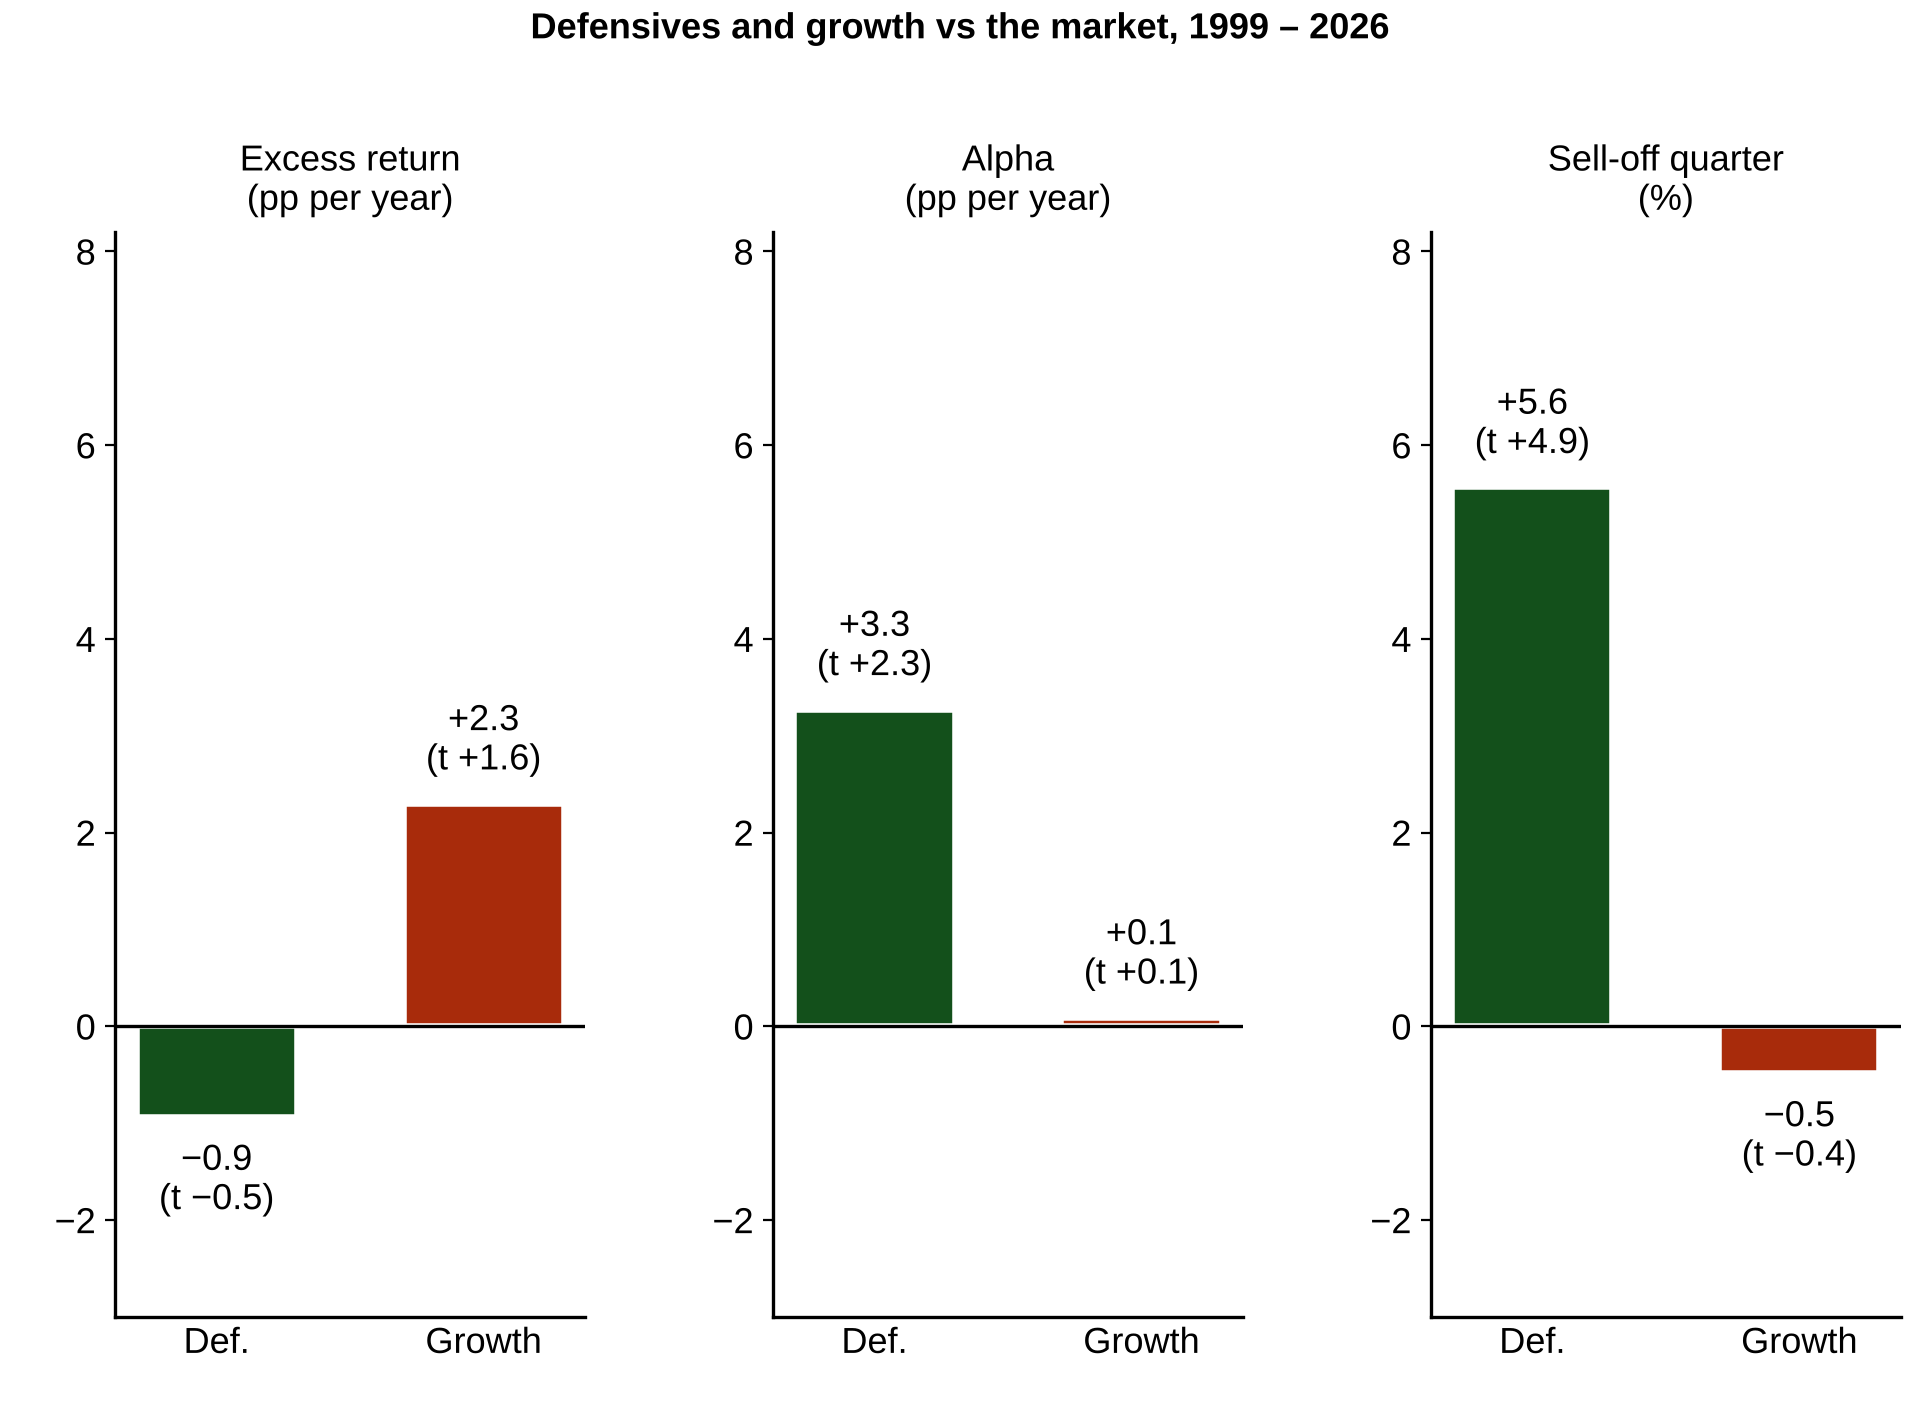
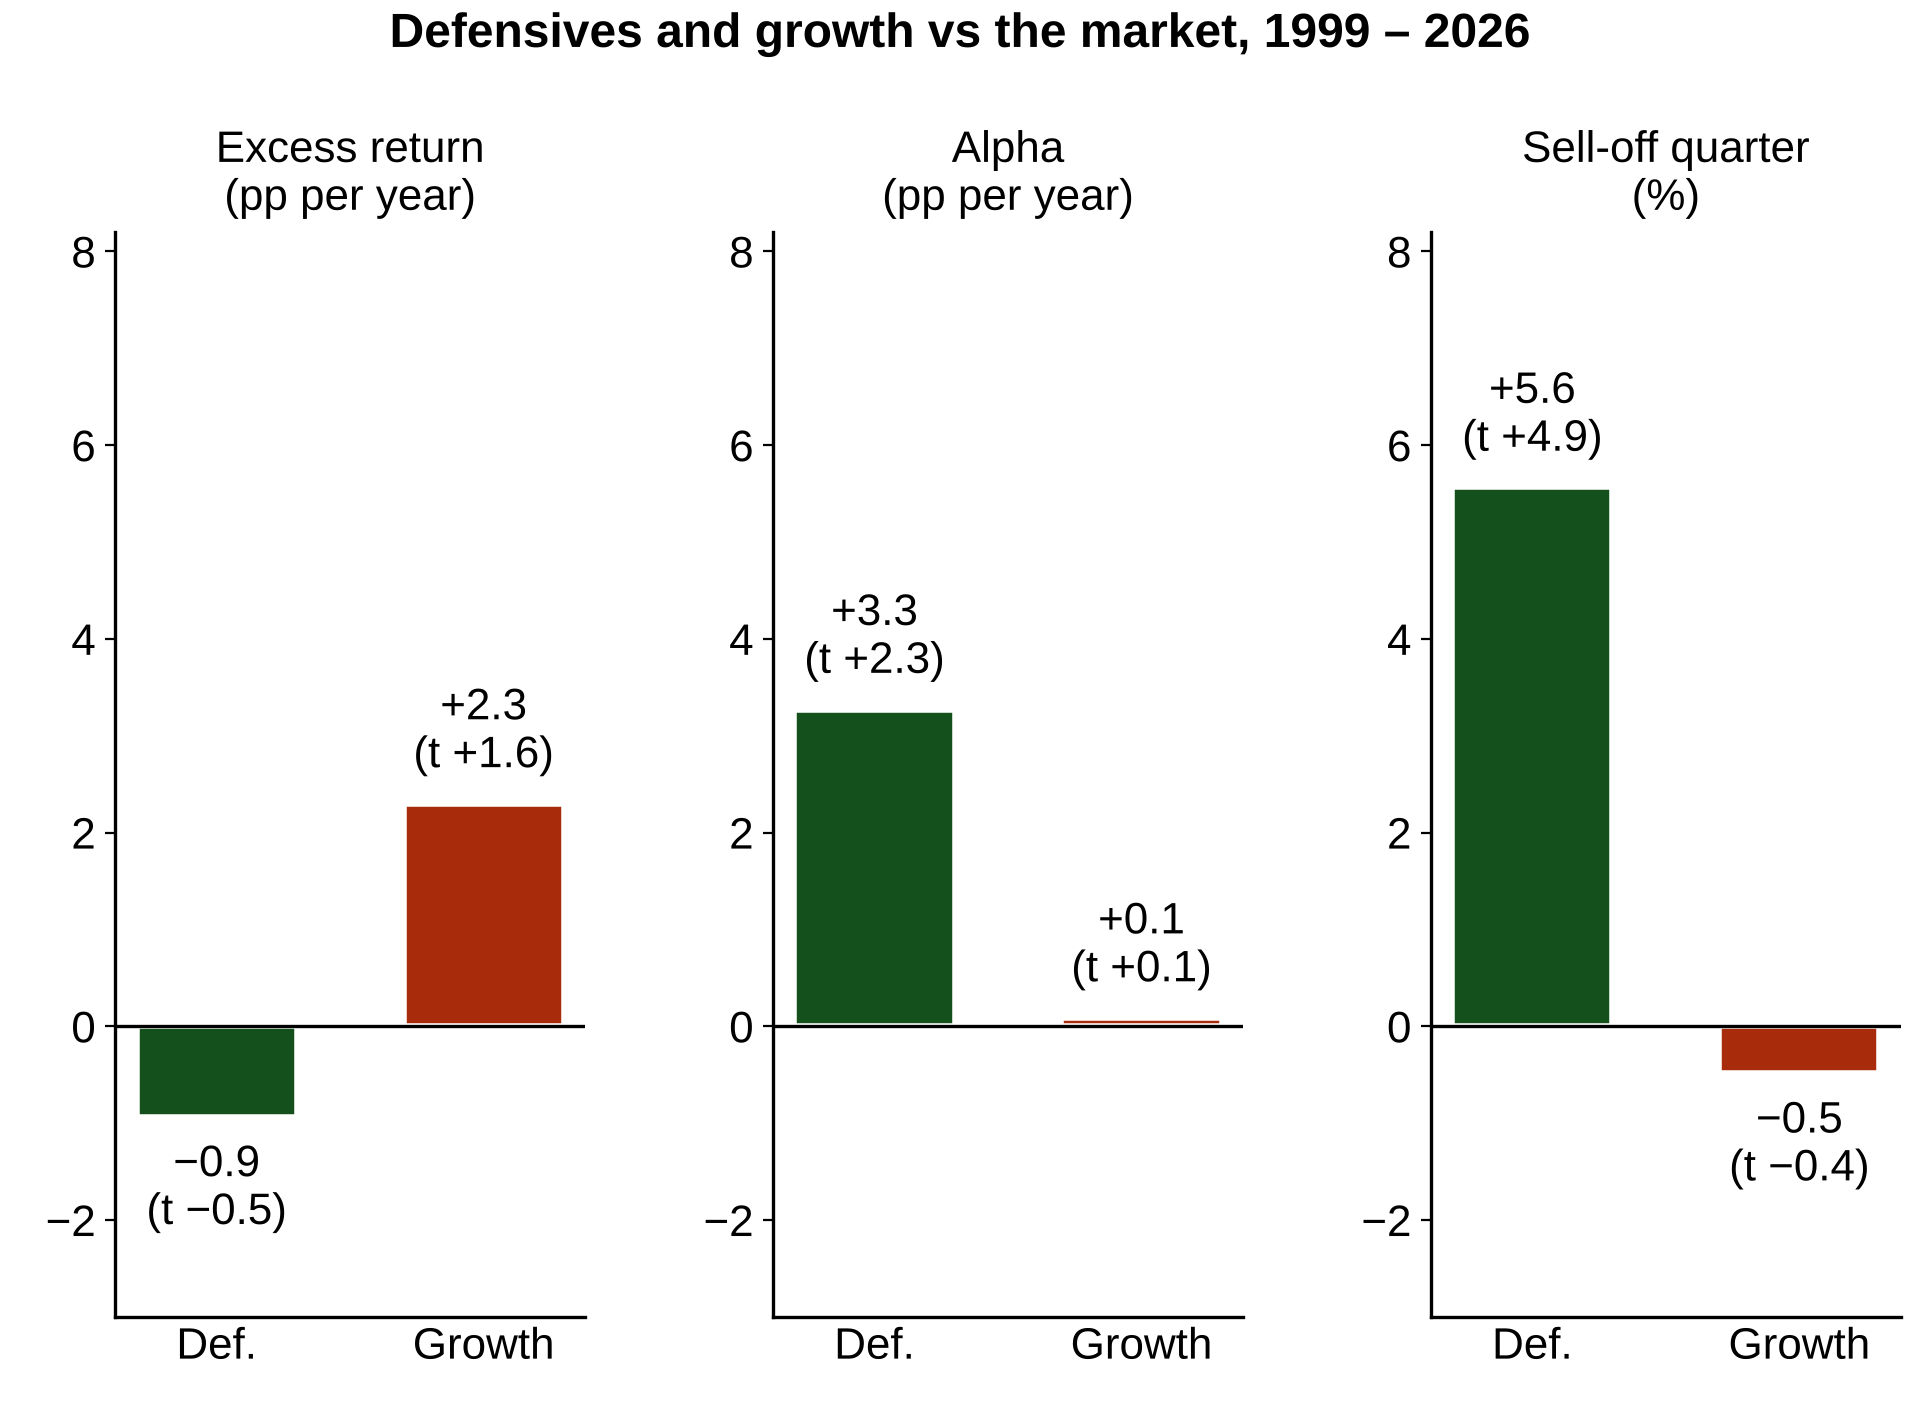
Deck charts: per-chart text size (24/22/20px) with 24px titles
Claude-Session: https://claude.ai/code/session_01XvrXAsh1HuWmDaJG6Ek6Ku

diff --git a/src/deck_visuals.py b/src/deck_visuals.py
@@ -45,7 +45,9 @@ CPI_SEP26 = {"Gasoline": 34.2, "Energy": 20.4, "All items": 3.7, "Shelter": 3.2,
 
 BG, INK = "#FFFFFF", "#000000"
 GREEN, RED, TEAL, LIGHT, GREY, TRACK = "#13501B", "#A82B0B", "#104862", "#8ED974", "#A6ADA7", "#E6E8E6"
-FS = 13.0           # about 18px on the slide (1px = 0.01in = 0.72pt): lighter than the 24px body text
+FS = 17.28          # 24px on the slide (1px = 0.01in = 0.72pt); set per chart by @sized below
+TITLE_FS = 17.28    # chart titles always 24px bold
+L, M, S = 17.28, 15.84, 14.4   # 24px roomy charts, 22px dense charts, 20px small or busy charts
 DEF, INF, GRW = ["XLP", "XLU", "XLV"], ["XLE", "XLB"], ["VGT", "XLY"]
 GROUP_COLOR = {**{t: GREEN for t in DEF}, **{t: RED for t in GRW}, **{t: TEAL for t in INF}}
 ORDER = ["VGT", "XLY", "XLC", "XLF", "XLI", "SCHH", "XLB", "XLE", "XLP", "XLV", "XLU"]
@@ -69,12 +71,34 @@ plt.rcParams.update({
 })
 
 
+def sized(v):
+    """Draw a chart with tick, label, legend and annotation text at v points (titles stay at TITLE_FS)."""
+    import functools
+
+    def deco(fn):
+        @functools.wraps(fn)
+        def run(*a, **k):
+            global FS
+            old = FS
+            FS = v
+            keys = ("font.size", "axes.labelsize", "xtick.labelsize", "ytick.labelsize", "legend.fontsize", "axes.titlesize")
+            prev = {key: plt.rcParams[key] for key in keys}
+            plt.rcParams.update({key: v for key in keys})
+            try:
+                return fn(*a, **k)
+            finally:
+                FS = old
+                plt.rcParams.update(prev)
+        return run
+    return deco
+
+
 def figure(w_px, h_px, **kw):
     return plt.subplots(figsize=(w_px / 100, h_px / 100), **kw)
 
 
 def title(fig, text):
-    fig.text(0.5, 1 - 6 / (fig.get_figheight() * 100), text, ha="center", va="top", fontsize=FS, **BOLD)
+    fig.text(0.5, 1 - 6 / (fig.get_figheight() * 100), text, ha="center", va="top", fontsize=TITLE_FS, **BOLD)
 
 
 def save(fig, name, extra=0):
@@ -124,6 +148,7 @@ def date_axis(ax, months=(1, 7), fmt="%b %Y"):
 
 
 # ---- Proposal ----------------------------------------------------------------------------------------------
+@sized(L)
 def weights_active(w=700, h=708):
     A = active_weights().reindex(ORDER)
     fig, ax = figure(w, h)
@@ -140,6 +165,7 @@ def weights_active(w=700, h=708):
 
 
 # ---- Present -----------------------------------------------------------------------------------------------
+@sized(L)
 def performance():
     from src.portfolio import etf_returns, DEFAULT, HOLDINGS, GROUPS
     R = etf_returns().loc["2026-06-30":LAST_MONTH]
@@ -171,6 +197,7 @@ def performance():
     return M, C, groups
 
 
+@sized(L)
 def active_current():
     A = active_weights()["Current"].reindex(ORDER)
     fig, ax = figure(1100, 708)
@@ -192,6 +219,7 @@ def active_current():
 MW, MH = 880, 420        # macro slides: two charts per slide
 
 
+@sized(S)
 def cpi_components(w=MW, h=MH):
     S = pd.Series(CPI_SEP26)
     colors = [RED if k in ("Gasoline", "Energy") else (INK if k == "All items" else GREEN) for k in S.index]
@@ -210,6 +238,7 @@ def cpi_components(w=MW, h=MH):
     save(fig, "deck_cpi_components.png")
 
 
+@sized(S)
 def activity(w=MW, h=MH):
     ip, rs = series("INDPRO"), series("RRSFS")
     a = ((ip / ip.shift(12) - 1) * 100).loc["2024-01":]
@@ -227,6 +256,7 @@ def activity(w=MW, h=MH):
     return a.iloc[-1], b.iloc[-1]
 
 
+@sized(S)
 def payrolls(w=MW, h=MH):
     p = series("PAYEMS").diff().loc["2025-01":]
     avg3 = p.rolling(3).mean()
@@ -243,6 +273,7 @@ def payrolls(w=MW, h=MH):
     return p
 
 
+@sized(S)
 def fed_funds(w=MW, h=MH):
     f, t10 = series("DFF").loc["2022-01-01":DECIDE], series("DGS10").loc["2022-01-01":DECIDE]
     cut = pd.Timestamp("2024-09-18")
@@ -259,6 +290,7 @@ def fed_funds(w=MW, h=MH):
     return f
 
 
+@sized(S)
 def fed_expected(w=MW, h=MH):
     f, t2 = series("DFF").loc["2025-01-01":DECIDE], series("DGS2").loc["2025-01-01":DECIDE]
     fig, ax = figure(w, h)
@@ -276,6 +308,7 @@ def fed_expected(w=MW, h=MH):
     return f.iloc[-1], t2.iloc[-1], gap
 
 
+@sized(S)
 def curve(w=MW, h=MH):
     t10, t2, f = series("DGS10"), series("DGS2"), series("DFF")
     df = pd.concat([t10, t2, f], axis=1, keys=["t10", "t2", "ff"]).dropna().loc["2019-01-01":DECIDE]
@@ -294,6 +327,7 @@ def curve(w=MW, h=MH):
     return df.iloc[-1], s1.iloc[-1], s2.iloc[-1]
 
 
+@sized(S)
 def real_yields(w=MW, h=MH):
     n, r, b = series("DGS10"), series("DFII10"), series("T10YIE")
     df = pd.concat([n, r, b], axis=1, keys=["n", "r", "b"]).dropna().loc["2021-01-01":DECIDE]
@@ -317,6 +351,7 @@ EVENTS = [("2026-02-28", "War begins", "right", 0), ("2026-04-08", "Ceasefire", 
           ("2026-10-25", "Qatar draft", "right", 0)]
 
 
+@sized(S)
 def wti(w=1060, h=330):
     s = series("DCOILWTICO").loc["2026-01-01":DECIDE]
     fig, ax = figure(w, h)
@@ -337,6 +372,7 @@ def wti(w=1060, h=330):
     return s
 
 
+@sized(M)
 def pe_premium(w=760, h=708):
     V = pd.read_csv(OUT / "valuation_signals.csv", index_col=0, parse_dates=True)
     prem = (np.exp(V["gap"].dropna()) - 1) * 100
@@ -357,6 +393,7 @@ def pe_premium(w=760, h=708):
 
 
 # ---- Timing ------------------------------------------------------------------------------------------------
+@sized(S)
 def def_minus_grw(w=900, h=330):
     r = pd.read_csv(RAW / "prices_monthly.csv", index_col=0, parse_dates=True).loc[:LAST_MONTH]
     D, G = r[DEF].mean(axis=1), r[["XLK", "XLY"]].mean(axis=1)
@@ -380,6 +417,7 @@ def def_minus_grw(w=900, h=330):
 
 
 # ---- Trades ------------------------------------------------------------------------------------------------
+@sized(M)
 def decomposition(w=960, h=708):
     T = pd.read_csv(OUT / "tournament_baseline.csv", index_col=0)
     d, g = T.loc["D"], T.loc["E"]
@@ -408,6 +446,7 @@ LABEL_POS = {"XLC": (-1.5, 0.25, "right"), "XLF": (-1.5, 0.0, "right"), "XLI": (
              "XLV": (1.8, 0.0, "left")}
 
 
+@sized(M)
 def valuation_revisions(w=700, h=708):
     T = pd.read_csv(OUT / "valuation_sectors.csv", index_col=0).drop(index="SPY", errors="ignore")
     col = {t: (GREEN if t in DEF else RED if t in ("XLK", "XLY") else GREY) for t in T.index}
@@ -428,6 +467,7 @@ def valuation_revisions(w=700, h=708):
     return T
 
 
+@sized(M)
 def oil_collapse_loss(w=900, h=520):
     S = pd.read_csv(OUT / "energy_stress.csv", index_col=0)
     glut = S.loc[[i for i in S.index if i.startswith("Oil glut")][0], "XLE minus SPY (%)"] / 100
@@ -455,6 +495,7 @@ def oil_collapse_loss(w=900, h=520):
 
 
 # ---- Risks -------------------------------------------------------------------------------------------------
+@sized(M)
 def risk_metrics(w=860, h=460):
     M = team_metrics()
     worst = lambda k: -M.loc[k, [c for c in M.columns if c.startswith("scen_")]].min()
@@ -480,6 +521,7 @@ def risk_metrics(w=860, h=460):
     return rows
 
 
+@sized(M)
 def scenario_returns(w=700, h=708):
     M = team_metrics()
     P = M[[c for c in M.columns if c.startswith("scen_")]].T.rename(index=lambda c: c[5:])[[CUR, NEW]]
@@ -502,6 +544,7 @@ def scenario_returns(w=700, h=708):
     return P
 
 
+@sized(L)
 def fixed_income_mix(w=700, h=500):
     """Same style as the equity active-weight chart: current (grey) vs proposed (green), % of portfolio."""
     from src.team_weights import TEAM
@@ -520,6 +563,7 @@ def fixed_income_mix(w=700, h=500):
     return T
 
 
+@sized(M)
 def trades_by_holding(w=860, h=708):
     from src.team_weights import TEAM
     d = (TEAM["new"] - TEAM["old"]).drop(index=["Gold"]).sort_values()
@@ -542,6 +586,7 @@ def trades_by_holding(w=860, h=708):
     return d
 
 
+@sized(M)
 def rate_sensitivity(w=700, h=420):
     from src.team_weights import TEAM, DURATION
     rows = list(DURATION)
@@ -566,6 +611,7 @@ def rate_sensitivity(w=700, h=420):
     return L
 
 
+@sized(M)
 def trigger_readings(w=700, h=708):
     wt = series("DCOILWTICO")
     be = series("T10YIE"); be_ref = be.loc[:DECIDE].iloc[-1]
